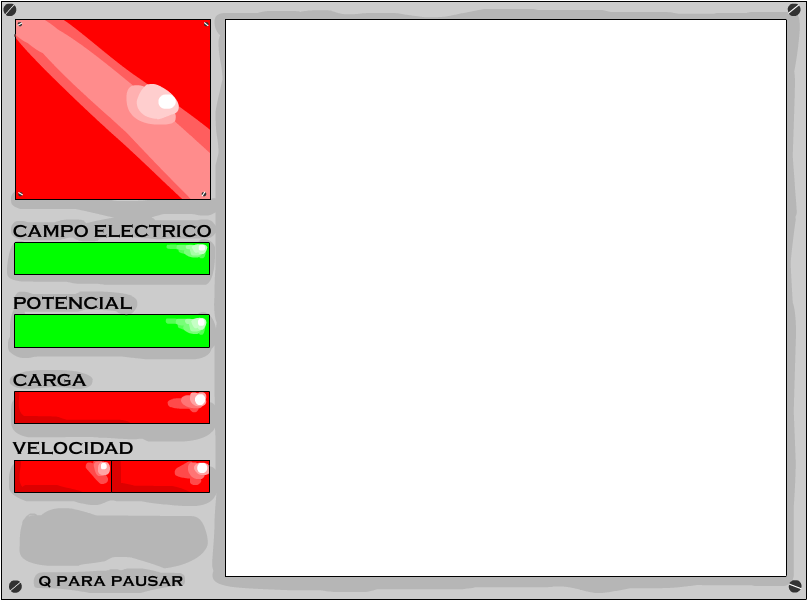
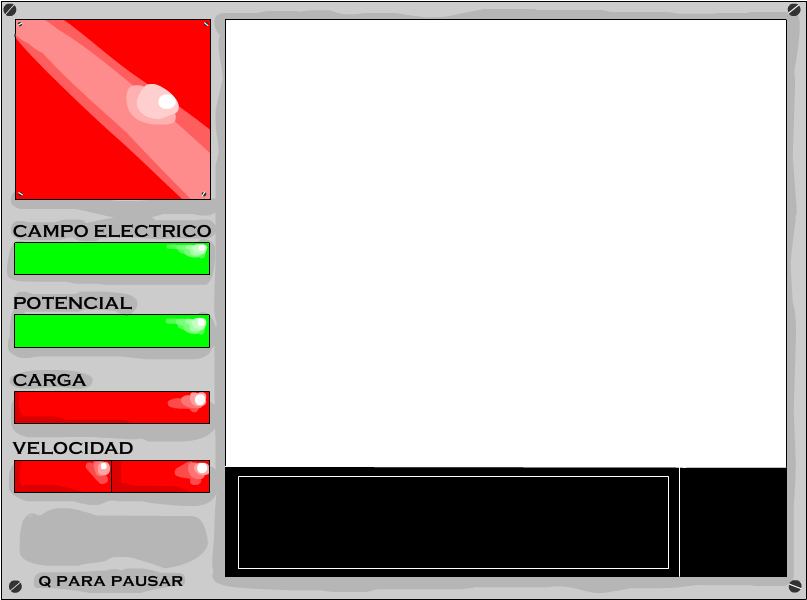
colorbar
Ya se puede ver la barra de color

Changed region(s): [[0.2788, 0.78, 0.9913, 0.96]]

diff --git a/CAMBIOS/Pantalla.py b/CAMBIOS/Pantalla.py
@@ -16,6 +16,7 @@ class world:
         pygame.display.set_caption("Simulador Campo Electrico")
         programIcon = pygame.image.load('proton.png')
         pygame.display.set_icon(programIcon)
+        self.barra=False
         self.clock=pygame.time.Clock()
         self.ball=ball
         self.cargas=cargas
@@ -25,15 +26,23 @@ class world:
         self.window = pygame.display.get_surface()
         if pote==True:
             self.surf = pygame.transform.flip(pygame.image.load("potencial.png"),False,True)
+            self.barra=True
         elif campe==True:
             self.surf = pygame.transform.flip(pygame.image.load("campo.png"),False,True)
+            self.barra=False
         elif pote==False and campe==False:
             self.surf =pygame.image.load('fondo.png')
+            self.barra=False
         self.surf=self.surf.convert()
         self.window.blit(self.surf, (0,0))
+
     def dibujar_botones(self,lista_botones):
         panel = pygame.transform.scale(self.tablero, [800, 600])
+        
         self.screen.blit(panel, [0, 0])
+        if self.barra:
+            self.window.blit(pygame.image.load("barra.png"), (240,480))
+
         for boton in lista_botones:
             if boton['on_click']:
                 self.screen.blit(boton['imagen_pressed'], boton['rect'])
@@ -51,6 +60,7 @@ class world:
         
         if update_potencial==True:
             imagen(self.cargas)
+            
         if update_campo==True:
             imagencampo(self.cargas)
         if POT==True:
@@ -172,6 +182,10 @@ class world:
                         pass
                     try:
                         remove('campo.png')
+                    except FileNotFoundError:
+                        pass
+                    try:
+                        remove('barra.png')
                     except FileNotFoundError:
                         pass
                     pygame.quit()

diff --git a/CAMBIOS/Potencial.py b/CAMBIOS/Potencial.py
@@ -9,22 +9,43 @@ def raw_data(potenciales):
     ax = fig.gca()
     ax = fig.add_axes([0, 0, 1, 1])
     ax.axis('off')
+    xx = np.linspace(0, 800,40)
+    yy = np.linspace(0, 600,40)
+    X, Y = np.meshgrid(xx, yy)
+    if len(potenciales)>0:
+        Z=carga.potencial(potenciales[0],(X,Y))
+        for i in potenciales:
+            if i!=potenciales[0]:
+                Z = Z+carga.potencial(i,(X,Y))
+        
+        ax.contourf(X, Y, Z, 50,cmap=matplotlib.cm.inferno)
+        ax.contour(X,Y,Z,90,colors='k')
+    
+    return fig
+def barra(potenciales):
+    plt.style.use('dark_background')
     xx = np.linspace(0, 800,50)
     yy = np.linspace(0, 600,50)
     X, Y = np.meshgrid(xx, yy)
-    
     if len(potenciales)>0:
         Z=carga.potencial(potenciales[0],(X,Y))
         for i in potenciales:
             if i!=potenciales[0]:
                 Z = Z+carga.potencial(i,(X,Y))
 
-        ax.contourf(X, Y, Z, levels=100,cmap=matplotlib.cm.inferno)
-        ax.contour(X,Y,Z,levels=80,colors='k')
 
+    fig,ax = plt.subplots()
+
+    mpb=plt.contourf(X, Y, Z, 50,cmap=matplotlib.cm.inferno)
+    plt.colorbar(mpb,ax=ax,fraction=0.20,orientation="horizontal",shrink=1.3,aspect=9)
+    ax.remove()
+        
     return fig
+
 def imagen(potenciales):
+    
     raw_data(potenciales).savefig('potencial.png')
+    barra(potenciales).savefig('barra.png',bbox_inches='tight')
     plt.close(raw_data(potenciales))
     raw_data(potenciales).clf()
     gc.collect()

diff --git a/CAMBIOS/Lineas_Campo.py b/CAMBIOS/Lineas_Campo.py
@@ -10,8 +10,8 @@ def raw_field(charges):
     fig = pylab.figure(figsize=[8, 6],dpi=100)
     ax = fig.add_axes([0, 0, 1, 1])
     ax.axis('off')
-    x = np.linspace(0, 800, 70)
-    y = np.linspace(0, 600, 70)
+    x = np.linspace(0, 800, 60)
+    y = np.linspace(0, 600, 60)
     X, Y = np.meshgrid(x, y)
 
     if len(charges)>0:
@@ -23,7 +23,7 @@ def raw_field(charges):
             Ey += ey
         
     
-        ax.streamplot(x, y, Ex, Ey,color=(1,1,1), linewidth=1.5, density=0.8, arrowstyle='->', arrowsize=1.5)
+        ax.streamplot(x, y, Ex, Ey,color=(1,1,1), linewidth=1.5, density=0.7, arrowstyle='->', arrowsize=1.3)
     
     return fig
 
